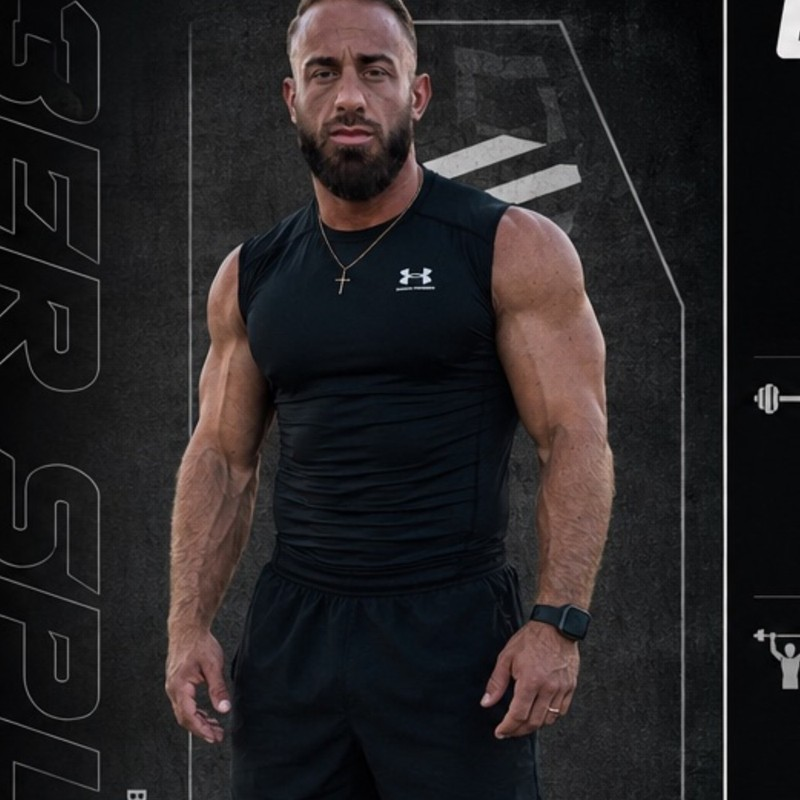
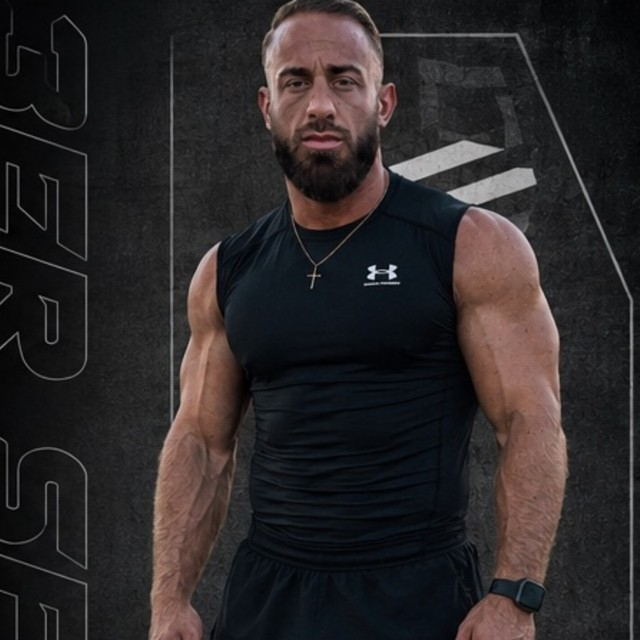
Add files via upload

diff --git a/index.html b/index.html
@@ -6,7 +6,7 @@
 <title>athletv12</title>
 <link rel="preconnect" href="https://fonts.googleapis.com">
 <link href="https://fonts.googleapis.com/css2?family=Poppins:wght@600;700&family=Inter:wght@400;500;600&display=swap" rel="stylesheet">
-<link rel="stylesheet" href="assets/style.css">
+<link rel="stylesheet" href="/style.css">
 </head>
 <body>
 <div class="lang-toggle">
@@ -16,7 +16,7 @@
 
 <div class="phone">
   <div class="top-pad">
-    <div class="avatar-ring"><img src="assets/images/avatar.jpg" alt="athletv12"></div>
+    <div class="avatar-ring"><img src="/avatar.jpg" alt="athletv12"></div>
     <div class="name">athletv12</div>
     <div class="tagline">
       <span data-de>Coach, Personaltrainer &amp; Ernährungsexperte</span>
@@ -35,7 +35,7 @@
 
   <div class="chapters">
     <a class="chapter-btn" href="coaching.html">
-      <img class="thumb" src="assets/images/coaching.jpg" alt="Coaching">
+      <img class="thumb" src="/coaching.jpg" alt="Coaching">
       <div class="label">
         <div class="title">Coaching</div>
         <div class="desc">
@@ -47,7 +47,7 @@
     </a>
 
     <a class="chapter-btn" href="guide.html">
-      <img class="thumb" src="assets/images/guide.jpg" alt="Kostenloser Fitness Guide">
+      <img class="thumb" src="/guide.jpg" alt="Kostenloser Fitness Guide">
       <div class="label">
         <div class="title">
           <span data-de>Kostenloser Fitness Guide</span>
@@ -62,7 +62,7 @@
     </a>
 
     <a class="chapter-btn" href="ueber-mich.html">
-      <img class="thumb" src="assets/images/ueber-mich.jpg" alt="Über mich">
+      <img class="thumb" src="/ueber-mich-card.jpg" alt="Über mich">
       <div class="label">
         <div class="title"><span data-de>Über mich</span><span data-en>About me</span></div>
         <div class="desc">
@@ -80,6 +80,6 @@
   </a>
 </div>
 
-<script src="assets/lang.js"></script>
+<script src="/lang.js"></script>
 </body>
 </html>

diff --git a/guide-danke.html b/guide-danke.html
@@ -6,7 +6,7 @@
 <title>Danke — athletv12</title>
 <link rel="preconnect" href="https://fonts.googleapis.com">
 <link href="https://fonts.googleapis.com/css2?family=Poppins:wght@600;700&family=Inter:wght@400;500;600&display=swap" rel="stylesheet">
-<link rel="stylesheet" href="assets/style.css">
+<link rel="stylesheet" href="/style.css">
 </head>
 <body>
 <div class="lang-toggle">
@@ -22,22 +22,16 @@
       <span data-en>Thanks for signing up!</span>
     </h1>
     <p style="color:var(--text-muted); font-size:14.5px; line-height:1.6; margin-bottom:28px;">
-      <span data-de>Dein kostenloser Fitness Guide ist bereit zum Download.</span>
-      <span data-en>Your free fitness guide is ready to download.</span>
+      <span data-de>Ich habe deine Anmeldung erhalten und schicke dir den kostenlosen Fitness Guide in Kürze persönlich per E-Mail zu.</span>
+      <span data-en>I've received your sign-up and will personally send you the free fitness guide by email shortly.</span>
     </p>
-    <a class="btn-primary" href="assets/Kostenloser-Fitness-Guide-ATHLETV12.pdf" download>
-      <span data-de>&#8681; Guide herunterladen</span>
-      <span data-en>&#8681; Download guide</span>
+    <a class="btn-primary" href="index.html">
+      <span data-de>Zurück zur Startseite</span>
+      <span data-en>Back to homepage</span>
     </a>
-    <div style="margin-top:22px;">
-      <a href="index.html" style="color:var(--text-muted); font-size:13.5px; text-decoration:underline;">
-        <span data-de>Zurück zur Startseite</span>
-        <span data-en>Back to homepage</span>
-      </a>
-    </div>
   </div>
 </div>
 
-<script src="assets/lang.js"></script>
+<script src="/lang.js"></script>
 </body>
 </html>

diff --git a/ueber-mich.html b/ueber-mich.html
@@ -6,9 +6,9 @@
 <title>Über mich — athletv12</title>
 <link rel="preconnect" href="https://fonts.googleapis.com">
 <link href="https://fonts.googleapis.com/css2?family=Poppins:wght@600;700&family=Inter:wght@400;500;600&display=swap" rel="stylesheet">
-<link rel="stylesheet" href="assets/style.css">
+<link rel="stylesheet" href="/style.css">
 <style>
-  .portrait{ width: 46%; float:right; margin: 4px 0 14px 16px; border-radius:18px; object-fit:cover; aspect-ratio:3/4; }
+  .portrait{ width: 46%; float:right; margin: 4px 0 14px 16px; border-radius:18px; object-fit:cover; object-position: top center; aspect-ratio:3/4; }
   .section p{ clear:none; }
   .checklist{ list-style:none; margin: 4px 0 18px; }
   .checklist li{ display:flex; gap:10px; margin-bottom:9px; font-size:14.5px; line-height:1.5; color:var(--text-muted); }
@@ -40,7 +40,7 @@
       <span data-en>Founder of ATHLETV12 Performance Coaching</span>
     </p>
 
-    <img class="portrait" src="assets/images/ueber-mich.jpg" alt="Marc Vuljan">
+    <img class="portrait" src="/ueber-mich.jpg" alt="Marc Vuljan">
 
     <p data-de>Mein Name ist Marc Vuljan und ich bin Gründer von ATHLETV12 Performance Coaching – einer Coaching-Marke, die für Disziplin, Leistungsbereitschaft und maximale körperliche sowie mentale Entwicklung steht.</p>
     <p data-en>My name is Marc Vuljan and I'm the founder of ATHLETV12 Performance Coaching – a coaching brand built on discipline, drive, and maximum physical and mental development.</p>
@@ -120,6 +120,6 @@
   </div>
 </div>
 
-<script src="assets/lang.js"></script>
+<script src="/lang.js"></script>
 </body>
 </html>

diff --git a/guide.html b/guide.html
@@ -6,7 +6,7 @@
 <title>Kostenloser Fitness Guide — athletv12</title>
 <link rel="preconnect" href="https://fonts.googleapis.com">
 <link href="https://fonts.googleapis.com/css2?family=Poppins:wght@600;700&family=Inter:wght@400;500;600&display=swap" rel="stylesheet">
-<link rel="stylesheet" href="assets/style.css">
+<link rel="stylesheet" href="/style.css">
 </head>
 <body>
 <div class="lang-toggle">
@@ -21,14 +21,14 @@
     <span data-en>Free Fitness Guide</span>
   </div>
 
-  <img class="hero-photo" src="assets/images/guide.jpg" alt="Fitness Guide">
+  <img class="hero-photo" src="/guide.jpg" alt="Fitness Guide">
 
   <div class="section">
     <div class="kicker">GRATIS GUIDE</div>
     <h1><span data-de>Die 3 Säulen für deinen Erfolg</span><span data-en>The 3 pillars of your success</span></h1>
     <p class="lead">
-      <span data-de>Trage dich mit Name und E-Mail-Adresse ein und erhalte sofort meinen kostenlosen Guide zu Training, Ernährung &amp; Disziplin.</span>
-      <span data-en>Enter your name and email address and get instant access to my free guide on training, nutrition &amp; discipline.</span>
+      <span data-de>Trage dich mit Name und E-Mail-Adresse ein und ich schicke dir meinen kostenlosen Guide zu Training, Ernährung &amp; Disziplin persönlich per E-Mail zu.</span>
+      <span data-en>Enter your name and email address and I'll personally send you my free guide on training, nutrition &amp; discipline by email.</span>
     </p>
   </div>
 
@@ -59,6 +59,6 @@
   </div>
 </div>
 
-<script src="assets/lang.js"></script>
+<script src="/lang.js"></script>
 </body>
 </html>

diff --git a/style.css b/style.css
@@ -49,7 +49,7 @@ h1,h2,h3,.headline{ font-family:'Poppins', sans-serif; }
 .top-pad{ padding: 48px 24px 24px; display:flex; flex-direction:column; align-items:center; text-align:center; }
 .avatar-ring{ width:210px; height:210px; border-radius:50%; padding:4px;
   background: rgba(255,255,255,0.5); margin-bottom:20px; box-shadow: 0 12px 30px rgba(15,25,50,0.25); }
-.avatar-ring img{ width:100%; height:100%; border-radius:50%; object-fit:cover; object-position: top center; display:block; }
+.avatar-ring img{ width:100%; height:100%; border-radius:50%; object-fit:cover; object-position: center; display:block; }
 .name{ font-family:'Poppins', sans-serif; font-weight:700; font-size:26px; letter-spacing:.01em; }
 .tagline{ color:var(--text-muted); font-size:14px; margin-top:8px; line-height:1.5; max-width:320px; }
 
@@ -69,7 +69,7 @@ h1,h2,h3,.headline{ font-family:'Poppins', sans-serif; }
   transition: border-color .2s, transform .15s, background .2s;
 }
 .chapter-btn:hover{ border-color: rgba(255,255,255,0.55); transform: translateY(-1px); background: rgba(255,255,255,0.16); }
-.chapter-btn .thumb{ width:76px; height:76px; border-radius:16px; object-fit:cover; flex-shrink:0; }
+.chapter-btn .thumb{ width:76px; height:76px; border-radius:16px; object-fit:cover; object-position: center; flex-shrink:0; }
 .chapter-btn .label{ flex:1; min-width:0; }
 .chapter-btn .title{ font-family:'Poppins',sans-serif; font-weight:700; font-size:16.5px; margin-bottom:4px; }
 .chapter-btn .desc{ font-size:12.8px; line-height:1.45; color:var(--text-muted); }

diff --git a/coaching.html b/coaching.html
@@ -6,7 +6,7 @@
 <title>Coaching Anfrage — athletv12</title>
 <link rel="preconnect" href="https://fonts.googleapis.com">
 <link href="https://fonts.googleapis.com/css2?family=Poppins:wght@600;700&family=Inter:wght@400;500;600&display=swap" rel="stylesheet">
-<link rel="stylesheet" href="assets/style.css">
+<link rel="stylesheet" href="/style.css">
 </head>
 <body>
 <div class="lang-toggle">
@@ -232,7 +232,7 @@
   </div>
 </div>
 
-<script src="assets/lang.js"></script>
+<script src="/lang.js"></script>
 <script>
   var wichtigkeit = document.getElementById('scale-wichtigkeit');
   var stress = document.getElementById('scale-stress');

diff --git a/danke.html b/danke.html
@@ -6,7 +6,7 @@
 <title>Danke — athletv12</title>
 <link rel="preconnect" href="https://fonts.googleapis.com">
 <link href="https://fonts.googleapis.com/css2?family=Poppins:wght@600;700&family=Inter:wght@400;500;600&display=swap" rel="stylesheet">
-<link rel="stylesheet" href="assets/style.css">
+<link rel="stylesheet" href="/style.css">
 </head>
 <body>
 <div class="lang-toggle">
@@ -32,6 +32,6 @@
   </div>
 </div>
 
-<script src="assets/lang.js"></script>
+<script src="/lang.js"></script>
 </body>
 </html>
